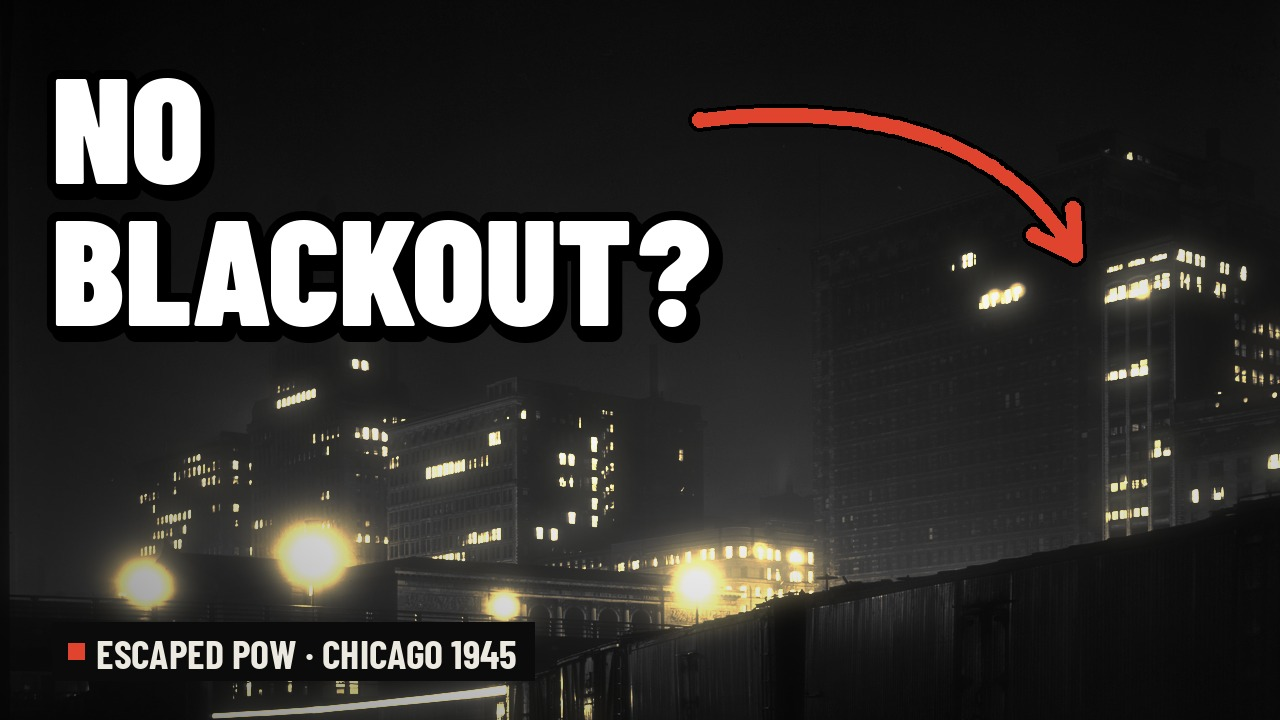
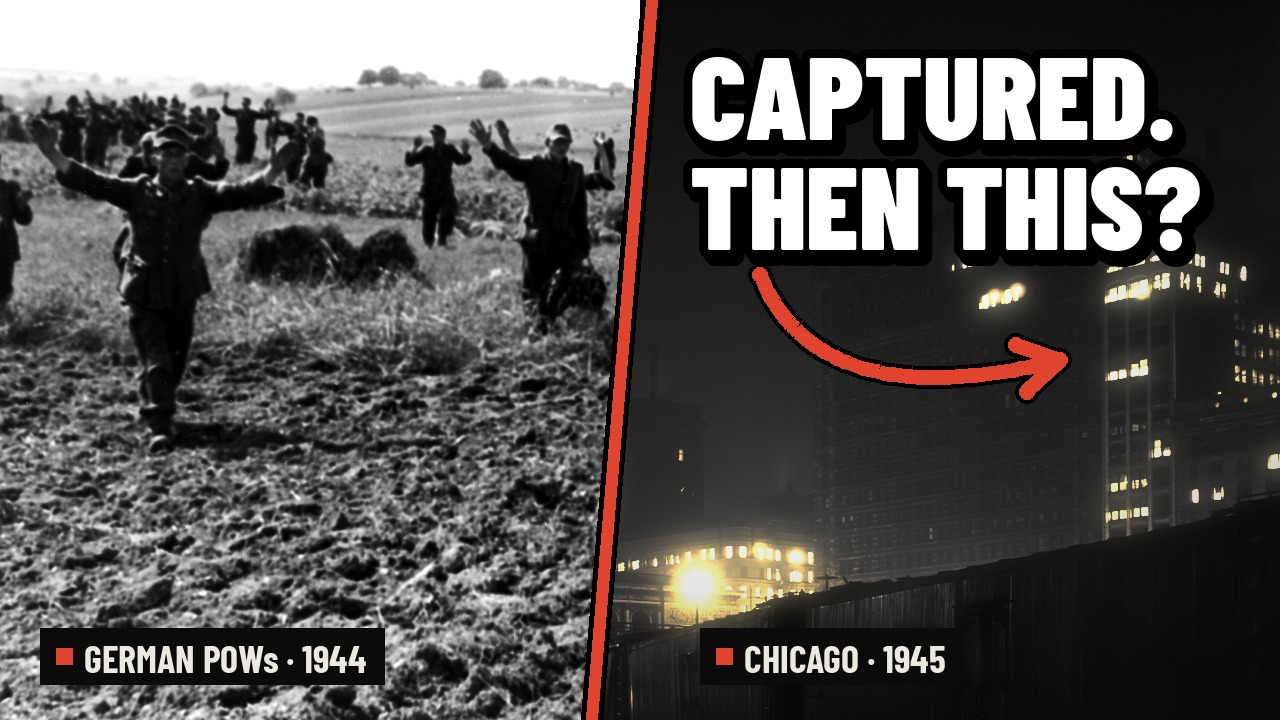
Thumbnails v2: split frame with surrendering German soldiers (1944) and Chicago at night
Claude-Session: https://claude.ai/code/session_018tdG9hcu6yuKxqWugyPZNi

diff --git a/video/chicago-lights/tools/thumbnail.py b/video/chicago-lights/tools/thumbnail.py
@@ -76,8 +76,41 @@ def make(name, line1, line2, small, arrow_pts):
     img.save(T / f"{name}.png")
     print("wrote", T / f"{name}.jpg")
 
+# ---- v2: split frame, so the thumbnail reads as WWII at a glance ----
+# Left: German soldiers surrendering, 1944 (LoC LOT 8754, "Fifty-six German prisoners of war come out
+# with their hands in the air", public domain). Right: Chicago at night, 1943. Red grease-pencil divider.
+
+def surrender_panel(w, h):
+    im = Image.open(T / "surrender_master.tif").convert("L")
+    s = im.width / 1024  # crop chosen on the 1024 px preview
+    x0, y0, y1 = 70 * s, 255 * s, 700 * s  # the surrendering soldiers, hands up
+    hh = y1 - y0; ww = hh * w / h
+    im = im.crop((int(x0), int(y0), int(x0 + ww), int(y1))).resize((w, h), Image.LANCZOS)
+    a = np.asarray(im).astype(np.float32) / 255
+    a = np.clip((a - 0.08) * 1.25, 0, 1) ** 1.15
+    return Image.fromarray((a * 255).astype(np.uint8)).convert("RGB")
+
+def make_split(name, line1, line2, left_tag, right_tag, arrow_pts):
+    img = base()
+    left = surrender_panel(640, H)
+    mask = Image.new("L", (W, H), 0)
+    ImageDraw.Draw(mask).polygon([(0, 0), (650, 0), (590, H), (0, H)], fill=255)
+    canvas = img.copy()
+    canvas.paste(left, (0, 0))
+    img = Image.composite(canvas, img, mask)
+    d = ImageDraw.Draw(img)
+    for col, w in (((0, 0, 0), 22), (RED, 12)):
+        d.line([(652, -10), (590, H + 10)], fill=col, width=w)
+    text(d, (690, 22), line1, 118)
+    text(d, (690, 132), line2, 118)
+    arrow(img, arrow_pts)
+    d = ImageDraw.Draw(img)
+    tag(d, (40, H - 92), left_tag, 38)
+    tag(d, (700, H - 92), right_tag, 38)
+    img.save(T / f"{name}.jpg", quality=92)
+    print("wrote", T / f"{name}.jpg")
+
+
 if __name__ == "__main__":
-    # A: the question the title raises
-    make("thumbnail_A", "NO", "BLACKOUT?", "ESCAPED POW · CHICAGO 1945", [(700, 120), (980, 90), (1075, 255)])
-    # B: what he wrote in his memoir
-    make("thumbnail_B", "A MILLION", "LIGHTS?!", "HE ESCAPED TO SEE THIS", [(720, 120), (985, 90), (1075, 255)])
+    make_split("thumbnail_A", "CAPTURED.", "THEN THIS?", "GERMAN POWs · 1944", "CHICAGO · 1945", [(760, 275), (820, 420), (1060, 360)])
+    make_split("thumbnail_B", "NO", "BLACKOUT?", "GERMAN POWs · 1944", "CHICAGO · 1945", [(760, 275), (820, 420), (1060, 360)])

diff --git a/video/chicago-lights/youtube.md b/video/chicago-lights/youtube.md
@@ -12,12 +12,14 @@ Every option stays true to the sources: Pabel rode a **bus**, and he himself is 
 Avoid "German POWs Were Told American Cities Were Blacked Out": no source says they were told that.
 
 ## Thumbnail
-- `thumbnail/thumbnail_A.jpg`: **NO BLACKOUT?** with the arrow on the lit tower, and the tag "ESCAPED POW · CHICAGO 1945". Pair it with title A or D.
-- `thumbnail/thumbnail_B.jpg`: **A MILLION LIGHTS?!** with the tag "HE ESCAPED TO SEE THIS". Pair it with title C (it echoes his own words).
+Split frame, so it reads as WWII at a glance. Left: German soldiers surrendering with their hands up, 1944. Right: Chicago lit up at night. A red grease-pencil divider runs between them, and the arrow points to the lit windows.
+- `thumbnail/thumbnail_A.jpg`: **CAPTURED. THEN THIS?** Pair it with title A or D.
+- `thumbnail/thumbnail_B.jpg`: **NO BLACKOUT?** Pair it with title B or C.
 
-Both are 1280×720, under 2 MB, and built on a real 1943 Kodachrome of Chicago at night (Jack Delano,
-Library of Congress, public domain). Regenerate them with `python3 tools/thumbnail.py`.
-Recommended: run YouTube's "Test & compare" with A vs B.
+Photos (Library of Congress, public domain): "Fifty-six German prisoners of war come out with their hands in
+the air…", 1944 (LOT 8754); Jack Delano, Chicago at night, May 1943 (LC-USW36-606). The left photo shows
+German soldiers surrendering in 1944, not Pabel himself; the tag says only "GERMAN POWs · 1944".
+Regenerate them with `python3 tools/thumbnail.py`. Recommended: run YouTube's "Test & compare" with A vs B.
 
 ## Description
 In September 1945, German prisoner of war Reinhold Pabel walked away from a small branch camp in Washington, Illinois. He caught a bus in Peoria with $3.75 left in his pocket and rode through the night toward Chicago.
